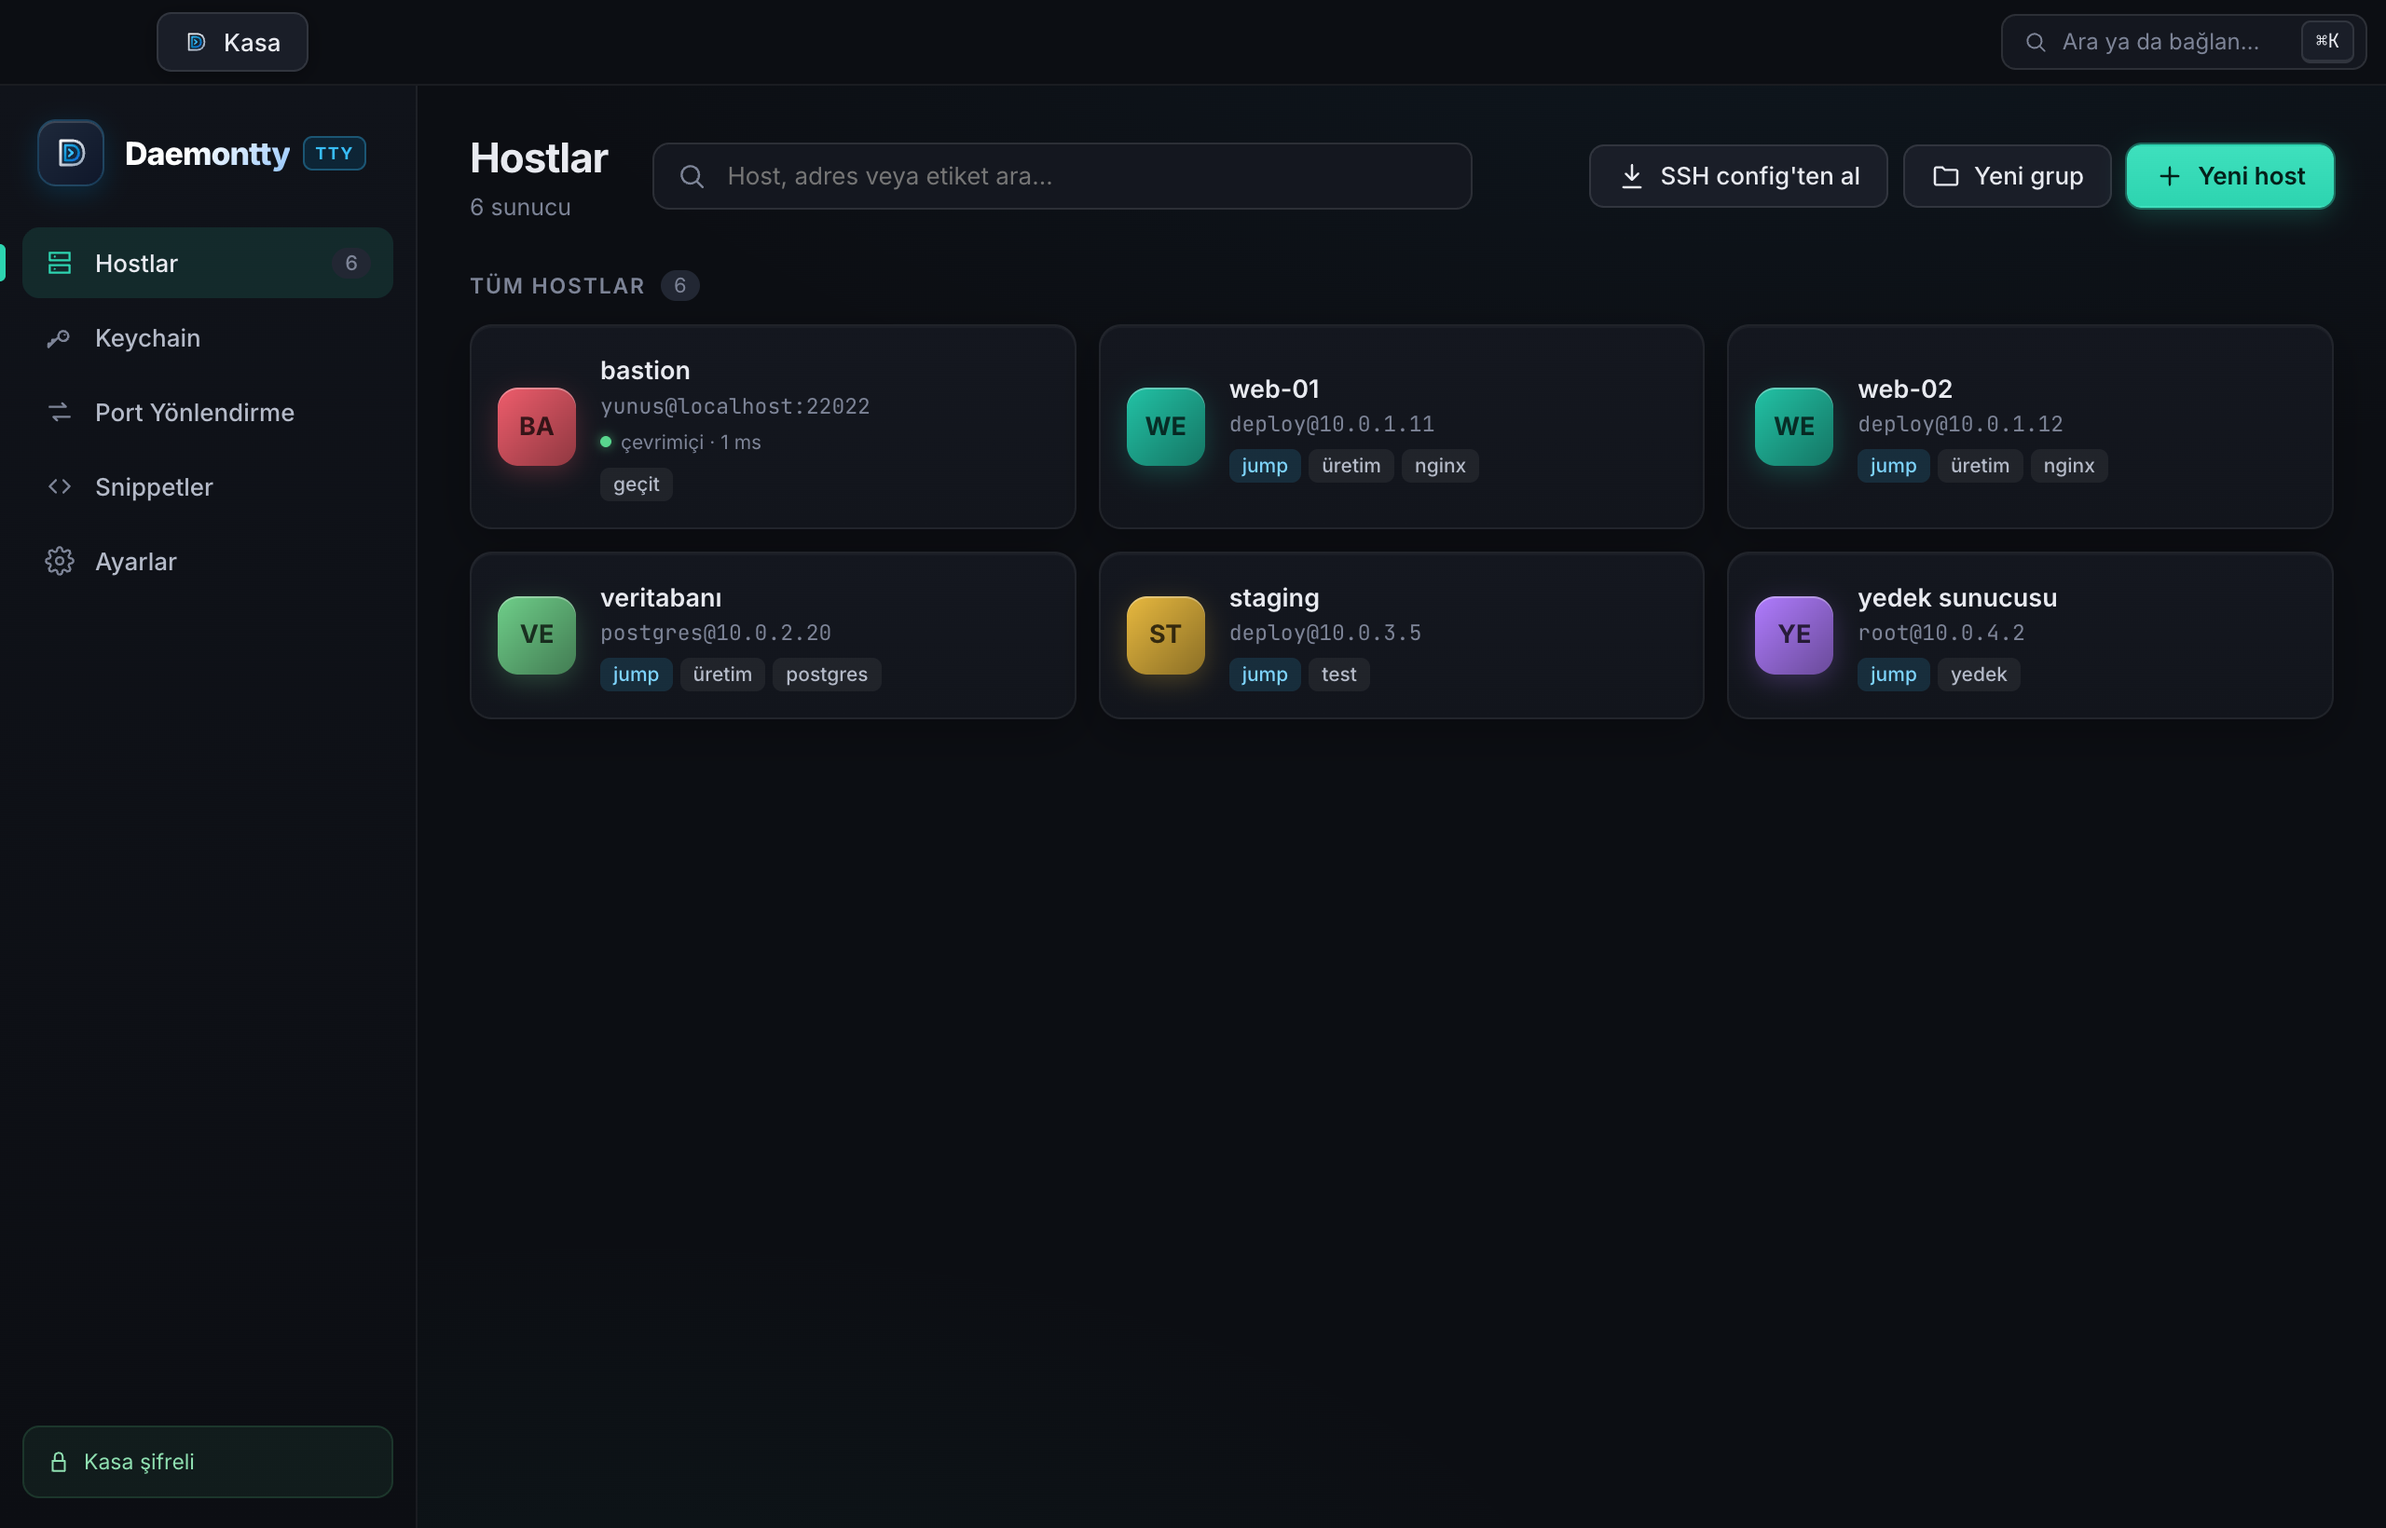
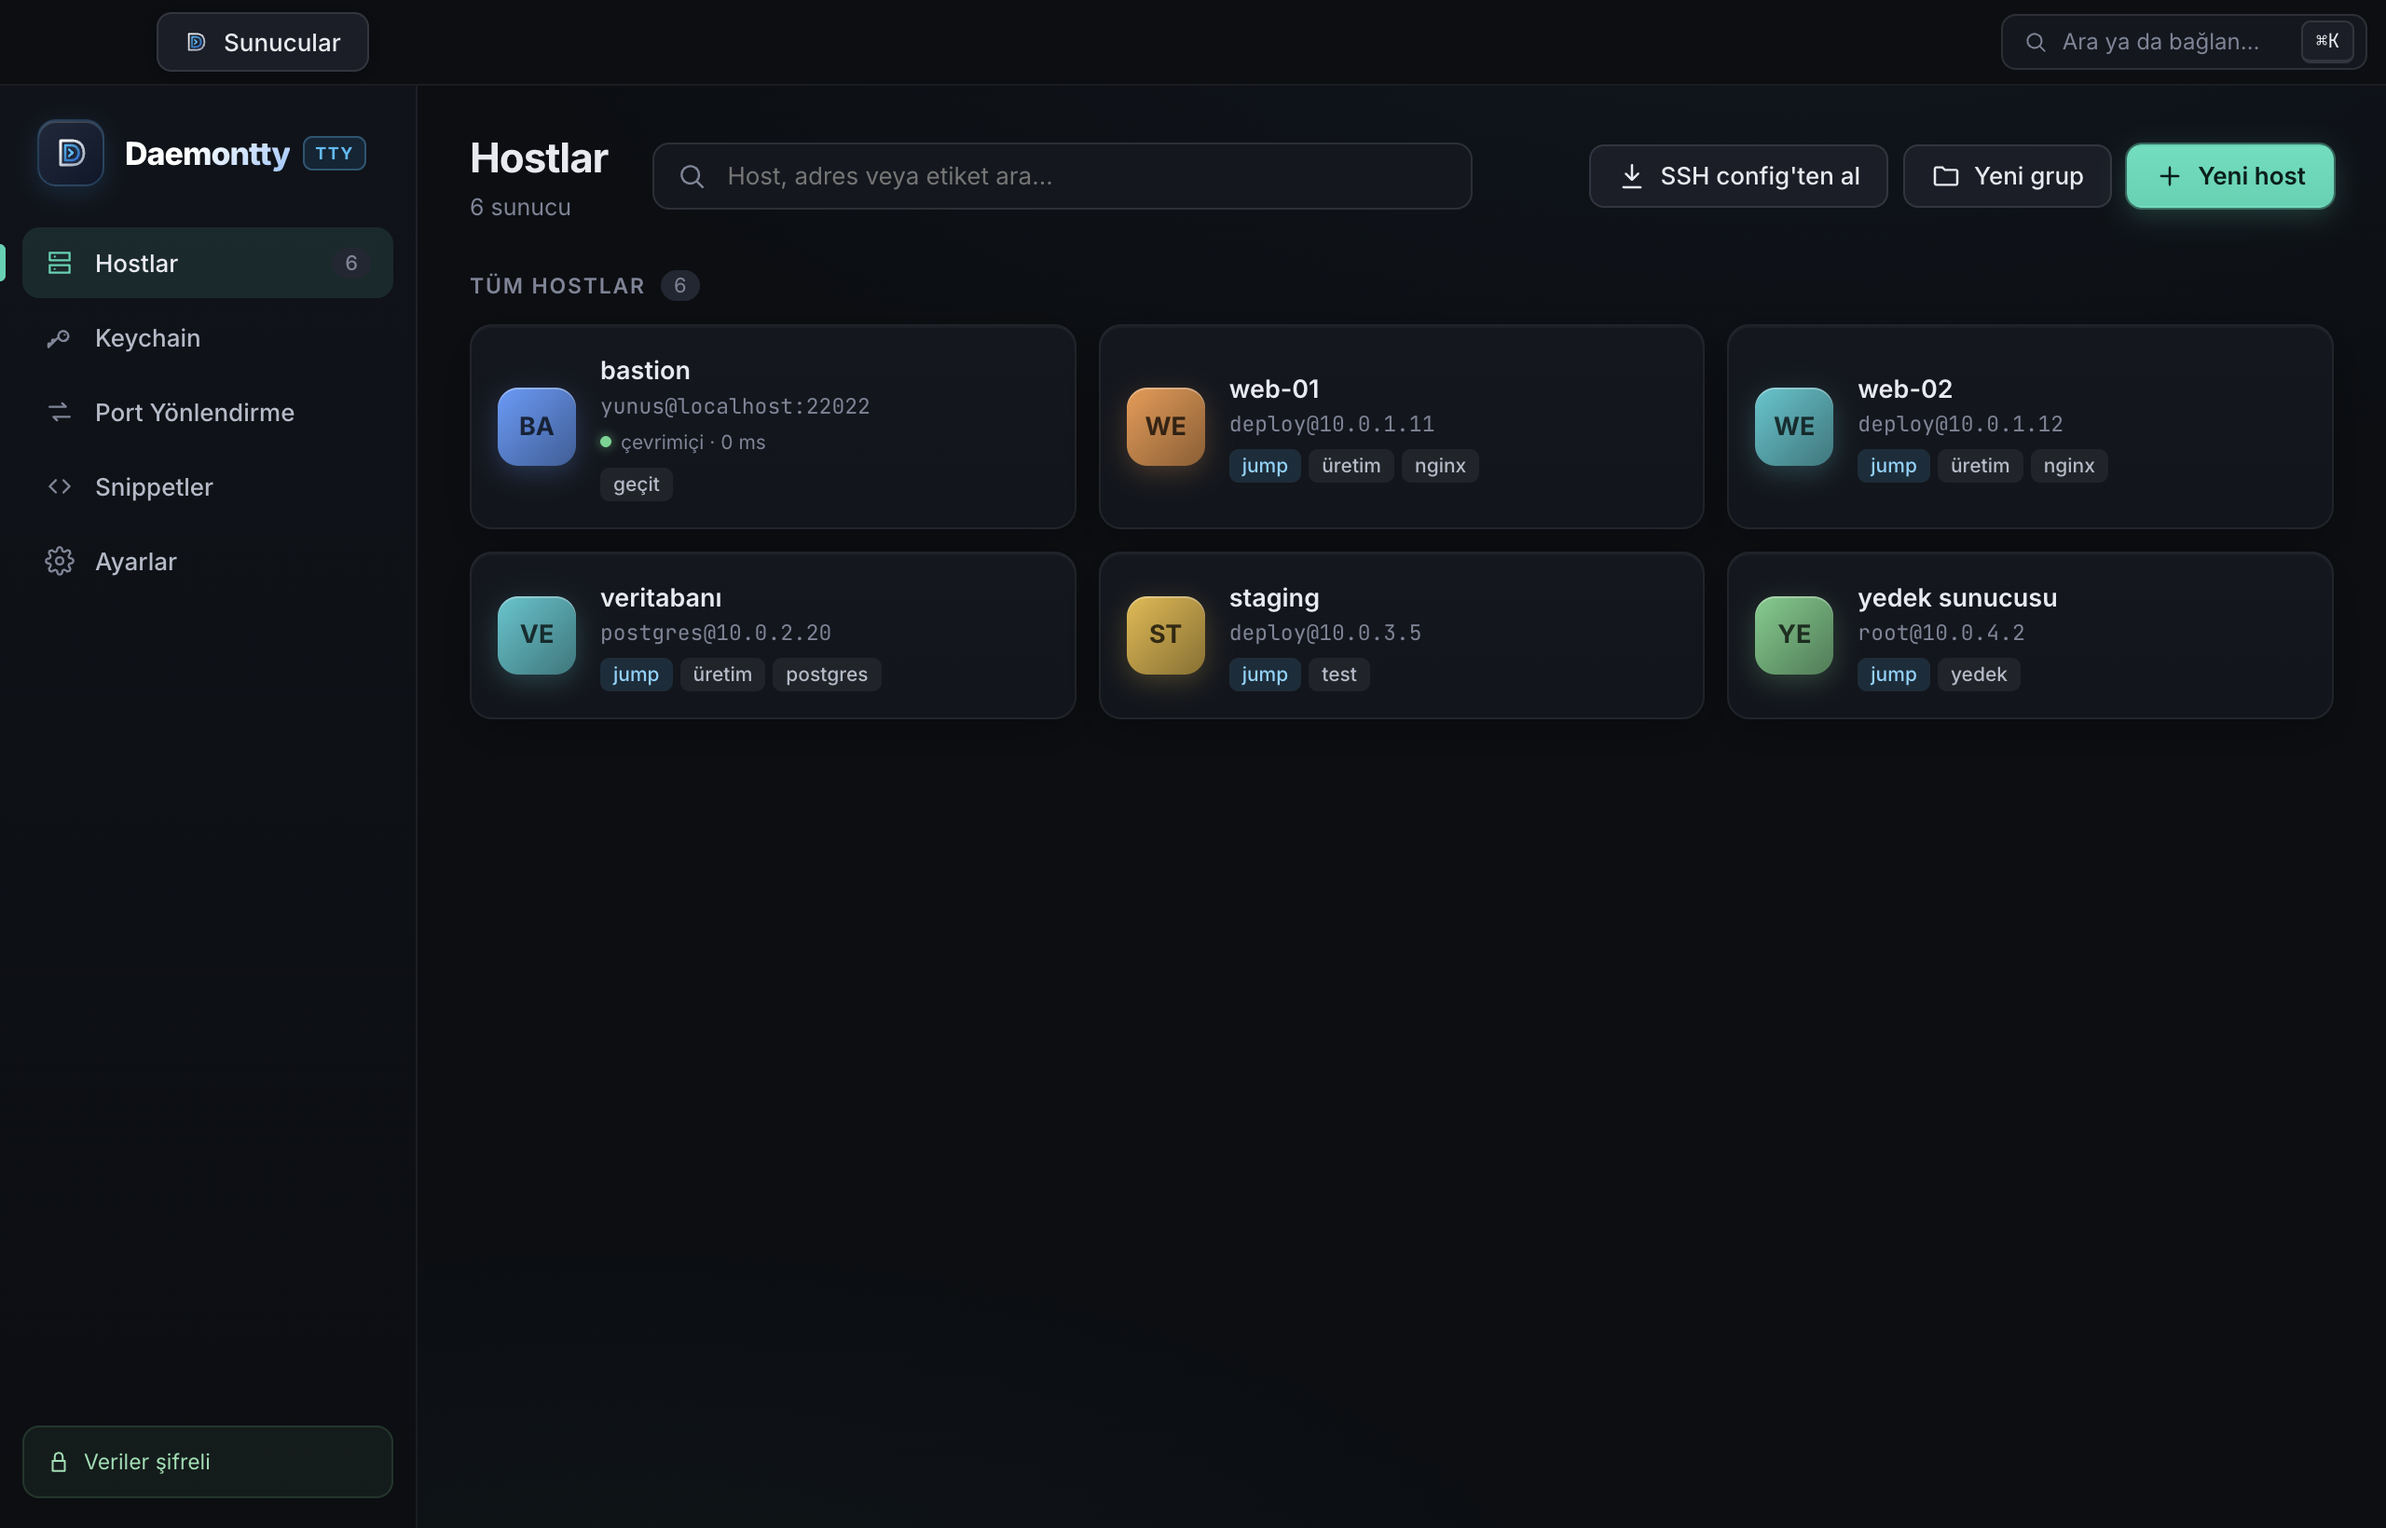
Ana sekme "Sunucular", şifre rozeti "Veriler şifreli" oldu

diff --git a/src/renderer/src/views/Settings.tsx b/src/renderer/src/views/Settings.tsx
@@ -629,7 +629,7 @@ function SecuritySettings({ encrypted, s, save }: { encrypted: boolean; s: Setti
       <div className={`security-banner ${encrypted ? 'ok' : 'bad'}`}>
         <Icon name="lock" size={20} />
         <div>
-          <strong>{encrypted ? 'Kasa şifreli' : 'Kasa şifresiz'}</strong>
+          <strong>{encrypted ? 'Veriler şifreli' : 'Veriler şifresiz'}</strong>
           <p>
             {encrypted
               ? 'Host bilgileri, parolalar ve anahtarlar işletim sisteminin anahtar zinciri ile şifrelenerek saklanıyor.'
@@ -660,7 +660,7 @@ function Shortcuts() {
     [[mac ? ['⌘', '⇧', 'B'] : ['Ctrl', 'Shift', 'B']], 'Tüm panellere yaz (aç/kapat)'],
     [[['Tab']], 'Öneriyi kabul et (liste açıkken)'],
     [[['→']], 'Soluk tamamlamayı kabul et'],
-    [[[mod, '1']], 'Kasa (ana sayfa)'],
+    [[[mod, '1']], 'Sunucular (ana sayfa)'],
     [[[mod, '2 … 9']], 'Açık sekmeler arasında geçiş'],
     [[[mod, '+'], [mod, '−']], 'Terminal yazısını büyüt / küçült'],
     [[[mod, '0']], 'Yazı boyutunu sıfırla'],

diff --git a/src/renderer/src/App.tsx b/src/renderer/src/App.tsx
@@ -205,7 +205,7 @@ export default function App() {
         <div className={`tabbar ${isMac ? 'tabbar-mac' : ''}`}>
           <button className={`tab tab-home ${active === HOME ? 'active' : ''}`} onClick={() => setActive(HOME)} title="Daemontty Ana Sayfa">
             <DaemonttyLogo size={16} />
-            <span>Kasa</span>
+            <span>Sunucular</span>
           </button>
           <button className="palette-trigger" onClick={() => setPalette(true)} title="Komut paleti">
             <Icon name="search" size={13} />
@@ -268,7 +268,7 @@ export default function App() {
               ))}
               <div className={`sidebar-foot ${data.encrypted ? "" : "sidebar-foot-bad"}`}>
                 <Icon name="lock" size={13} />
-                <span>{data.encrypted ? 'Kasa şifreli' : 'Kasa şifresiz!'}</span>
+                <span>{data.encrypted ? 'Veriler şifreli' : 'Veriler şifresiz!'}</span>
               </div>
             </nav>
             <main className="main">

diff --git a/README.md b/README.md
@@ -104,7 +104,7 @@ Son sürümü [Releases sayfasından](https://github.com/YunusEmreGok/daemontty/
 | Sonraki / önceki panel | `⌘]` / `⌘[` | `Ctrl+Shift+]` / `Ctrl+Shift+[` |
 | Tüm panellere yaz | `⌘⇧B` | `Ctrl+Shift+B` |
 | Kopyala / yapıştır | `⌘C` / `⌘V` | `Ctrl+Shift+C` / `Ctrl+Shift+V` |
-| Kasa (ana sayfa) | `⌘1` | `Ctrl+1` |
+| Sunucular (ana sayfa) | `⌘1` | `Ctrl+1` |
 | Sekmeler arası geçiş | `⌘2`…`⌘9` | `Ctrl+2`…`Ctrl+9` |
 | Yazıyı büyüt / küçült / sıfırla | `⌘+` / `⌘−` / `⌘0` | `Ctrl++` / `Ctrl+−` / `Ctrl+0` |
 | Öneriyi kabul et | `Tab` ya da `→` | `Tab` ya da `→` |
